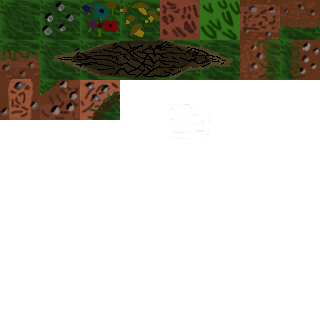
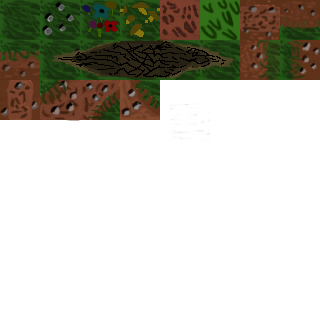
Lepsze kolizje

Changed region(s): [[0.25, 0.25, 0.5, 0.375], [0.0312, 0.25, 0.0938, 0.375], [0.125, 0.25, 0.2188, 0.3438]]

diff --git a/bin/html5/bin/WebGame.js b/bin/html5/bin/WebGame.js
@@ -47,7 +47,7 @@ ApplicationMain.init = function() {
 	if(total == 0) ApplicationMain.start();
 };
 ApplicationMain.main = function() {
-	ApplicationMain.config = { build : "217", company : "TTGTeam", file : "WebGame", fps : 60, name : "WebGame", orientation : "", packageName : "ttg.game.WebGame", version : "1.0.0", windows : [{ antialiasing : 0, background : 0, borderless : false, depthBuffer : false, display : 0, fullscreen : false, hardware : false, height : 600, parameters : "{}", resizable : true, stencilBuffer : true, title : "WebGame", vsync : false, width : 800, x : null, y : null}]};
+	ApplicationMain.config = { build : "296", company : "TTGTeam", file : "WebGame", fps : 60, name : "WebGame", orientation : "", packageName : "ttg.game.WebGame", version : "1.0.0", windows : [{ antialiasing : 0, background : 0, borderless : false, depthBuffer : false, display : 0, fullscreen : false, hardware : false, height : 600, parameters : "{}", resizable : true, stencilBuffer : true, title : "WebGame", vsync : false, width : 800, x : null, y : null}]};
 };
 ApplicationMain.start = function() {
 	var hasMain = false;
@@ -35811,7 +35811,7 @@ var ttg_game_gameobject_TestObject = function(l,x,y) {
 	ttg_game_gameobject_GameObject.call(this,l,x,y);
 	this.width = 100;
 	this.height = 100;
-	this.movement = new openfl_geom_Point();
+	this.velocity = new openfl_geom_Point();
 	this.hitBox = new ttg_game_physics_AABB(x - this.width / 2,y - this.height / 2,this.width,this.height);
 	l.addCollider(this.hitBox);
 };
@@ -35821,21 +35821,21 @@ ttg_game_gameobject_TestObject.__super__ = ttg_game_gameobject_GameObject;
 ttg_game_gameobject_TestObject.prototype = $extend(ttg_game_gameobject_GameObject.prototype,{
 	update: function() {
 		ttg_game_gameobject_GameObject.prototype.update.call(this);
-		if(ttg_game_input_Input.isKeyDown(37)) this.movement.x -= this.speed;
-		if(ttg_game_input_Input.isKeyDown(38)) this.movement.y -= this.speed;
-		if(ttg_game_input_Input.isKeyDown(39)) this.movement.x += this.speed;
-		if(ttg_game_input_Input.isKeyDown(40)) this.movement.y += this.speed;
+		if(ttg_game_input_Input.isKeyDown(37)) this.velocity.x -= this.speed;
+		if(ttg_game_input_Input.isKeyDown(38)) this.velocity.y -= this.speed;
+		if(ttg_game_input_Input.isKeyDown(39)) this.velocity.x += this.speed;
+		if(ttg_game_input_Input.isKeyDown(40)) this.velocity.y += this.speed;
 		this.hitBox.update(this.x - this.width / 2,this.y - this.height / 2,this.width,this.height);
 		var _g = 0;
 		var _g1 = this.level.colliders;
 		while(_g < _g1.length) {
 			var col = _g1[_g];
 			++_g;
-			if(this.hitBox.checkCollision(col,this.movement)) this.hitBox.collide(col,this.movement);
+			if(this.hitBox.checkCollision(col,this.velocity)) this.hitBox.collide(col,this.velocity);
 		}
-		this.x += this.movement.x;
-		this.y += this.movement.y;
-		this.movement = new openfl_geom_Point();
+		this.x += this.velocity.x;
+		this.y += this.velocity.y;
+		this.velocity = new openfl_geom_Point();
 	}
 	,render: function() {
 		ttg_game_gameobject_GameObject.prototype.render.call(this);
@@ -35917,7 +35917,6 @@ ttg_game_level_Level.prototype = {
 		}
 	}
 	,render: function() {
-		this.debugSprite.get_graphics().clear();
 		this.bg.render();
 		var _g = 0;
 		var _g1 = this.objects;
@@ -35926,6 +35925,7 @@ ttg_game_level_Level.prototype = {
 			++_g;
 			obj.render();
 		}
+		this.debugSprite.get_graphics().clear();
 		var _g2 = 0;
 		var _g11 = this.colliders;
 		while(_g2 < _g11.length) {
@@ -36045,10 +36045,10 @@ var ttg_game_physics_Collider = function() { };
 $hxClasses["ttg.game.physics.Collider"] = ttg_game_physics_Collider;
 ttg_game_physics_Collider.__name__ = ["ttg","game","physics","Collider"];
 ttg_game_physics_Collider.prototype = {
-	checkCollision: function(other,movement) {
+	checkCollision: function(other,velocity) {
 		return false;
 	}
-	,collide: function(other,movement) {
+	,collide: function(other,velocity) {
 	}
 	,debugDraw: function(graphics) {
 	}
@@ -36067,31 +36067,68 @@ ttg_game_physics_AABB.prototype = $extend(ttg_game_physics_Collider.prototype,{
 		this.rect.width = width;
 		this.rect.height = height;
 	}
-	,checkCollision: function(other,movement) {
+	,checkCollision: function(other,velocity) {
 		if(other == this) return false;
-		if(js_Boot.__instanceof(other,ttg_game_physics_AABB)) return new openfl_geom_Rectangle(this.rect.x + movement.x,this.rect.y + movement.y,this.rect.width,this.rect.height).intersects((js_Boot.__cast(other , ttg_game_physics_AABB)).rect);
-		if(js_Boot.__instanceof(other,ttg_game_physics_BorderCollider)) return (js_Boot.__cast(other , ttg_game_physics_BorderCollider)).checkCollision(this,movement);
+		if(js_Boot.__instanceof(other,ttg_game_physics_AABB)) return new openfl_geom_Rectangle(this.rect.x + velocity.x,this.rect.y + velocity.y,this.rect.width,this.rect.height).intersects((js_Boot.__cast(other , ttg_game_physics_AABB)).rect);
+		if(js_Boot.__instanceof(other,ttg_game_physics_BorderCollider)) return (js_Boot.__cast(other , ttg_game_physics_BorderCollider)).checkCollision(this,velocity);
 		return false;
 	}
-	,collide: function(other,movement) {
+	,collide: function(other,velocity) {
 		if(other == this) return;
-		if(js_Boot.__instanceof(other,ttg_game_physics_AABB)) this.AABBvsAABB(this.rect,(js_Boot.__cast(other , ttg_game_physics_AABB)).rect,movement);
-		if(js_Boot.__instanceof(other,ttg_game_physics_BorderCollider)) this.AABBvsBorder(this.rect,movement,js_Boot.__cast(other , ttg_game_physics_BorderCollider));
+		if(js_Boot.__instanceof(other,ttg_game_physics_AABB)) this.AABBvsAABB(this.rect,(js_Boot.__cast(other , ttg_game_physics_AABB)).rect,velocity);
+		if(js_Boot.__instanceof(other,ttg_game_physics_BorderCollider)) this.AABBvsBorder(this.rect,velocity,js_Boot.__cast(other , ttg_game_physics_BorderCollider));
 	}
-	,AABBvsAABB: function(rect,otherRect,movement) {
-		var newX = 0;
-		var newY = 0;
-		if(rect.get_right() + movement.x > otherRect.x && !(rect.x + movement.x < otherRect.get_right())) newX = Math.min(rect.get_right(),otherRect.x) - Math.max(rect.get_right(),otherRect.x);
-		if(rect.x + movement.x < otherRect.get_right() && !(rect.get_right() + movement.x > otherRect.x)) newX = Math.max(rect.x,otherRect.get_right()) - Math.min(rect.x,otherRect.get_right());
-		if(rect.get_top() + movement.y < otherRect.get_top() && !(rect.y + movement.y < otherRect.get_top())) newY = Math.min(rect.get_top(),otherRect.y) - Math.max(rect.get_top(),otherRect.y);
-		if(rect.y + movement.y < otherRect.get_top() && !(rect.get_top() + movement.y < otherRect.get_top())) newY = Math.max(rect.y,otherRect.get_top()) - Math.min(rect.y,otherRect.get_top());
-		movement.x = newX;
-		movement.y = newY;
+	,AABBvsAABB: function(rect,otherRect,velocity) {
+		var xEntryDist;
+		var xExitDist;
+		var yEntryDist;
+		var yExitDist;
+		if(velocity.x > 0) {
+			xEntryDist = otherRect.x - rect.get_right();
+			xExitDist = otherRect.get_right() - rect.x;
+		} else {
+			xEntryDist = otherRect.get_right() - rect.x;
+			xExitDist = otherRect.x - rect.get_right();
+		}
+		if(velocity.y > 0) {
+			yEntryDist = otherRect.y - rect.get_bottom();
+			yExitDist = otherRect.get_bottom() - rect.y;
+		} else {
+			yEntryDist = otherRect.get_bottom() - rect.y;
+			yExitDist = otherRect.y - rect.get_bottom();
+		}
+		var xEntryTime;
+		var xExitTime;
+		var yEntryTime;
+		var yExitTime;
+		if(velocity.x != 0) {
+			xEntryTime = xEntryDist / velocity.x;
+			xExitTime = xExitDist / velocity.x;
+		} else {
+			xEntryTime = -99999999999;
+			xExitTime = 9999999999;
+		}
+		if(velocity.y != 0) {
+			yEntryTime = yEntryDist / velocity.y;
+			yExitTime = yExitDist / velocity.y;
+		} else {
+			yEntryTime = -99999999999;
+			yExitTime = 9999999999;
+		}
+		var entryTime = Math.max(xEntryTime,yEntryTime);
+		var exitTime = Math.min(xExitTime,yExitTime);
+		if(entryTime > exitTime || xEntryTime < 0 && yEntryTime < 0 || xEntryTime > 1 || yEntryTime > 1) return;
+		var normal = new openfl_geom_Point();
+		if(xEntryTime > yEntryTime) {
+			if(xEntryDist > 0) normal.x = -1; else normal.x = 1;
+		} else if(yEntryDist > 0) normal.y = -1; else normal.y = 1;
+		velocity.x *= entryTime;
+		velocity.y *= entryTime;
 	}
-	,AABBvsBorder: function(rect,movement,border) {
+	,AABBvsBorder: function(rect,velocity,border) {
 		if(!border.axis) {
-			if(!border.normal) movement.x = border.location - rect.x; else movement.x = rect.get_right() - border.location;
-		} else if(!border.normal) movement.y = border.location - rect.get_top(); else movement.y = border.location - rect.get_bottom();
+			if(!border.normal) velocity.x = border.location - rect.x; else velocity.x = border.location - rect.get_right();
+		} else if(!border.normal) velocity.y = border.location - rect.get_top(); else velocity.y = border.location - rect.get_bottom();
 	}
 	,debugDraw: function(graphics) {
 		graphics.lineStyle(1,16711680);
@@ -36108,28 +36145,28 @@ $hxClasses["ttg.game.physics.BorderCollider"] = ttg_game_physics_BorderCollider;
 ttg_game_physics_BorderCollider.__name__ = ["ttg","game","physics","BorderCollider"];
 ttg_game_physics_BorderCollider.__super__ = ttg_game_physics_Collider;
 ttg_game_physics_BorderCollider.prototype = $extend(ttg_game_physics_Collider.prototype,{
-	checkCollision: function(other,movement) {
+	checkCollision: function(other,velocity) {
 		if(other == this) return false;
 		if(!this.axis) {
 			if(!this.normal) {
 				var otherLeft = null;
-				if(js_Boot.__instanceof(other,ttg_game_physics_AABB)) otherLeft = (js_Boot.__cast(other , ttg_game_physics_AABB)).rect.x + movement.x;
+				if(js_Boot.__instanceof(other,ttg_game_physics_AABB)) otherLeft = (js_Boot.__cast(other , ttg_game_physics_AABB)).rect.x + velocity.x;
 				if(otherLeft == null) return false;
 				return otherLeft < this.location;
 			} else {
 				var otherRight = null;
-				if(js_Boot.__instanceof(other,ttg_game_physics_AABB)) otherRight = (js_Boot.__cast(other , ttg_game_physics_AABB)).rect.get_right() + movement.x;
+				if(js_Boot.__instanceof(other,ttg_game_physics_AABB)) otherRight = (js_Boot.__cast(other , ttg_game_physics_AABB)).rect.get_right() + velocity.x;
 				if(otherRight == null) return false;
 				return otherRight > this.location;
 			}
 		} else if(!this.normal) {
 			var otherTop = null;
-			if(js_Boot.__instanceof(other,ttg_game_physics_AABB)) otherTop = (js_Boot.__cast(other , ttg_game_physics_AABB)).rect.get_top() + movement.y;
+			if(js_Boot.__instanceof(other,ttg_game_physics_AABB)) otherTop = (js_Boot.__cast(other , ttg_game_physics_AABB)).rect.get_top() + velocity.y;
 			if(otherTop == null) return false;
 			return otherTop < this.location;
 		} else {
 			var otherBottom = null;
-			if(js_Boot.__instanceof(other,ttg_game_physics_AABB)) otherBottom = (js_Boot.__cast(other , ttg_game_physics_AABB)).rect.get_bottom() + movement.y;
+			if(js_Boot.__instanceof(other,ttg_game_physics_AABB)) otherBottom = (js_Boot.__cast(other , ttg_game_physics_AABB)).rect.get_bottom() + velocity.y;
 			if(otherBottom == null) return false;
 			return otherBottom > this.location;
 		}
